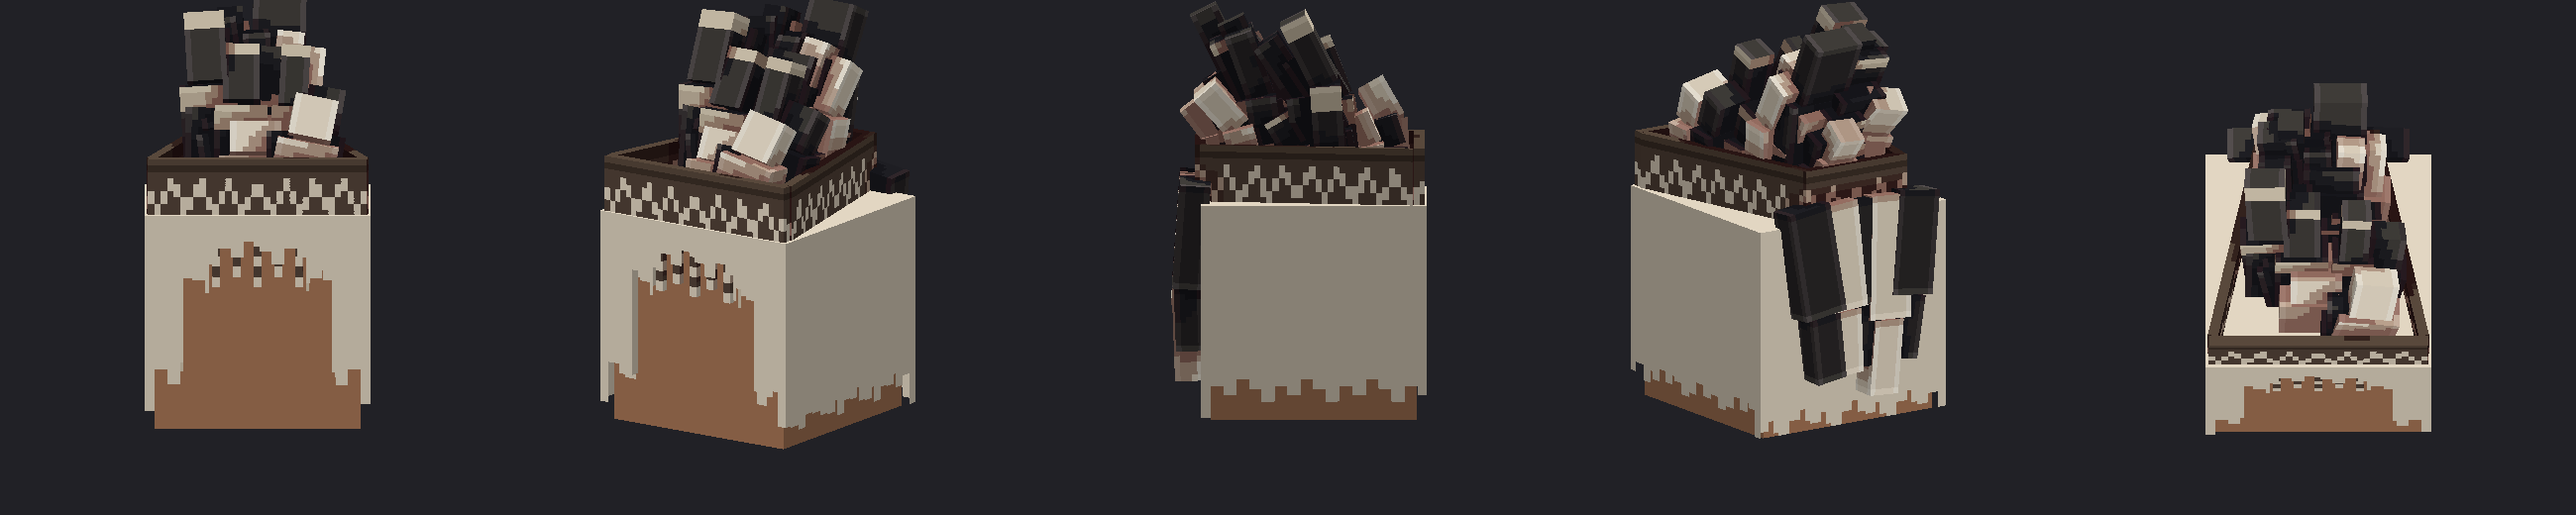
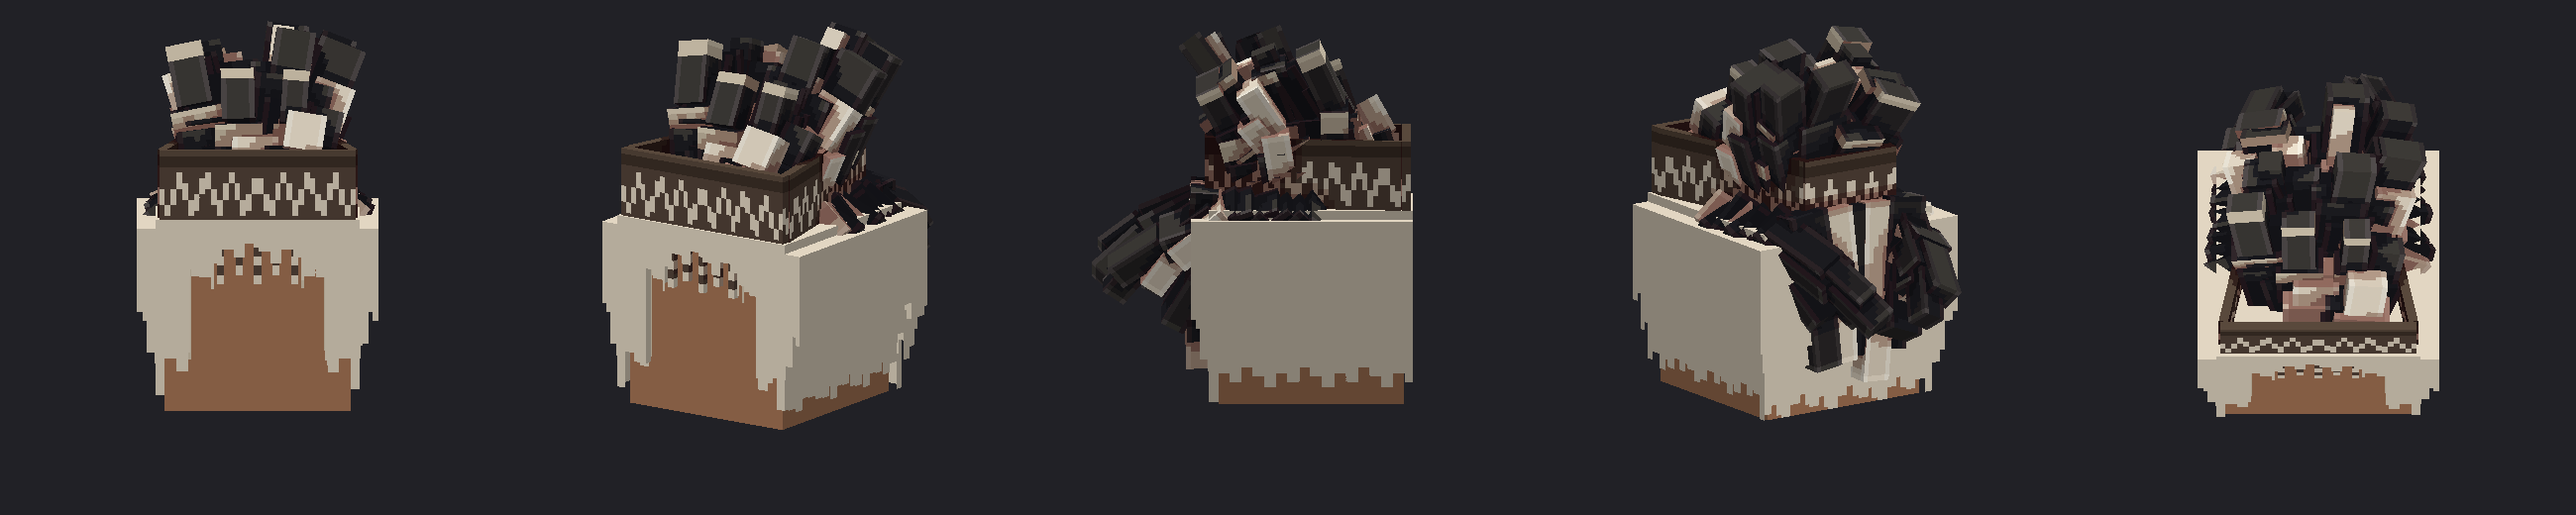
Kemira: penacho llena la diadema y se abre atras, pelo que cae fuera de la diadema, diadema mas alta y pelo en capas
Claude-Session: https://claude.ai/code/session_01JLSuk79QgXUucDMTiBYitK

diff --git a/taller/personajes/kemira.py b/taller/personajes/kemira.py
@@ -29,7 +29,7 @@ def tejido(t):
     return hex_(CREMA if abs(v - (0.3 + 0.4 * tri)) < 0.09 else CAFE)
 
 
-def diadema(p, T, alto=3.0, grosor=0.4):
+def diadema(p, T, alto=3.8, grosor=0.4):
     """Diadema alta encima de la cabeza (sujeta del pelo, no en la frente), vista desde arriba es un trapecio: adelante, de punta a punta de la frente;
     los costados se cierran hacia atras y termina recta en la nuca. Adelante cuelgan flecos de cuentas."""
     g = "Head/diadema"
@@ -93,21 +93,24 @@ def capa_pelo(base):
     return p
 
 
-def pelo(p, C, T, o=0.4):
-    """Pelo en 3D como una sola capa de grosor parejo (o) pegada a la cabeza: arriba, atras, a los costados y las
-    cortinas de adelante, todas unidas, del mismo crema y sin sombras; nada mas gordo ni que sobresalga."""
-    g = "Head/pelo"
+def pelo(p, C, T):
+    """Pelo en capas parejas pegadas a la cabeza: la primera llega mas abajo y cada capa de encima es un poco mas
+    gruesa hacia afuera y mas corta, con sus propias puntas; todas del mismo crema, unidas y sin sombras."""
     h = 4.0
-    p.caja(g, "arriba", (-h - o, T, -h - o), (h + o, T + o, h + o), capa_pelo(0), dens=8, luz=False)
-    p.caja(g, "atras", (-h - o, C, h), (h + o, T, h + o), capa_pelo(1.0), dens=8, luz=False)
-    for s in (1, -1):
-        a, b = sorted((s * h, s * (h + o)))
-        p.caja(g, f"costado{s}", (a, C, -h - o), (b, T, h), capa_pelo(1.6), dens=8, luz=False)
-        a, b = sorted((s * 2.9, s * h))
-        p.caja(g, f"cortina{s}", (a, C, -h - o), (b, T, -h), capa_pelo(2.6), dens=8, luz=False)
-        a, b = sorted((s * 1.9, s * 2.9))
-        p.caja(g, f"suelto{s}", (a, C, -h - o), (b, T, -h), capa_pelo(6.3), dens=8, luz=False)
-    p.caja(g, "flequillo", (-1.9, C, -h - o), (1.9, T, -h), capa_pelo(7.4), dens=8, luz=False)
+    for capa, (o, sube) in enumerate(((0.4, 0.0), (0.8, 1.4), (1.2, 2.8))):
+        g = "Head/pelo"
+        n = f"{capa}"
+        p.caja(g, "arriba" + n, (-h - o, T, -h - o), (h + o, T + 0.4, h + o), capa_pelo(0), dens=8, luz=False) if capa == 0 else None
+        p.caja(g, "atras" + n, (-h - o, C, h), (h + o, T, h + o), capa_pelo(1.0 + sube), dens=8, luz=False)
+        for s in (1, -1):
+            a, b = sorted((s * h, s * (h + o)))
+            p.caja(g, f"costado{s}_{n}", (a, C, -h - 0.4), (b, T, h), capa_pelo(1.6 + sube), dens=8, luz=False)
+            if capa == 0:
+                a, b = sorted((s * 2.9, s * h))
+                p.caja(g, f"cortina{s}", (a, C, -h - 0.4), (b, T, -h), capa_pelo(2.6), dens=8, luz=False)
+                a, b = sorted((s * 1.9, s * 2.9))
+                p.caja(g, f"suelto{s}", (a, C, -h - 0.4), (b, T, -h), capa_pelo(6.3), dens=8, luz=False)
+    p.caja("Head/pelo", "flequillo", (-1.9, C, -h - 0.4), (1.9, T, -h), capa_pelo(7.4), dens=8, luz=False)
 
 
 NEGRO = {"s": "#1E1C1E", "b": "#2B2829", "l": "#3B3637"}
@@ -152,25 +155,40 @@ def _azar(k):
 
 
 def penacho(p, T, C):
-    """El pelo de arriba como un penacho de figuras 3D cuadradas que se doblan, cortas y desparejas: salen
-    adentro de la diadema (sin pisarla), casi paradas y apenas hacia atras, cada una con su lugar, largo y giro.
-    Desde el borde de atras de la diadema bajan otras figuras hasta la nuca."""
-    n = 48
+    """El pelo de arriba como un penacho de figuras 3D cuadradas que se doblan, desparejas y de tamanos distintos:
+    llenan toda la diadema (sin pisarla), casi paradas; las de atras se abren hacia los costados. Donde no hay
+    diadema (las esquinas de atras de la cabeza) salen figuras que caen hacia atras y abajo, abiertas a los lados.
+    Desde el borde de atras de la diadema bajan otras hasta la nuca."""
+    n = 70
     for k in range(n):
-        f = (k + 0.5) / n                                          # de adelante hacia atras, mezclado abajo
-        z = FZ + 0.6 + 7.0 * (0.55 * f + 0.45 * _azar(k))          # desde el frente de la diadema
+        f = (k + 0.5) / n
+        z = FZ + 0.5 + (BZ - FZ - 1.0) * (0.6 * f + 0.4 * _azar(k))
         t = (z - FZ) / (BZ - FZ)
-        mitad = FX + (BX - FX) * t - 0.45
-        ancho = 1.3 + 1.9 * _azar(k + 50)                           # tamanos muy distintos
-        x = (2 * ((k * 0.618 + 0.3 * _azar(k + 100)) % 1.0) - 1) * max(0.0, mitad - ancho / 2)   # repartidas a lo ancho
-        largo = 2.6 + 5.0 * _azar(k + 150) ** 1.5 + 1.2 * (z - FZ) / 8.0
-        inclina = 2 + 16 * (z - FZ) / 8.0 + 10 * (_azar(k + 200) - 0.5)
-        abre = -x * 5 + 16 * (_azar(k + 250) - 0.5)
+        mitad = FX + (BX - FX) * t - 0.4
+        ancho = 1.3 + 1.9 * _azar(k + 50)
+        q = 2 * ((k * 0.618 + 0.3 * _azar(k + 100)) % 1.0) - 1
+        x = q * max(0.0, mitad - ancho / 2)
+        largo = 2.6 + 5.0 * _azar(k + 150) ** 1.5 + 1.0 * t
+        inclina = 2 + 12 * t + 10 * (_azar(k + 200) - 0.5)
+        abre = -q * (6 + 34 * t) + 14 * (_azar(k + 250) - 0.5)        # atras se abren hacia los costados
         crema = _azar(k + 300) < 0.2
         tono = CREMA_PLUMA if crema else NEGRO
         punta = None if crema or _azar(k + 350) < 0.6 else CREMA_PLUMA["s"]
         poner_figura(p, f"figura{k}", (x, T + 0.4, z), largo, ancho, (inclina, 0, abre), tono, punta,
                      dobla=10 + 18 * _azar(k + 400))
+    # las esquinas de atras, fuera de la diadema: caen hacia atras y abajo, abiertas a los costados
+    k = 0
+    for s in (1, -1):
+        for i in range(9):
+            z = -0.5 + 4.6 * i / 8
+            t = (z - FZ) / (BZ - FZ)
+            borde = FX + (BX - FX) * t + 0.5                         # justo afuera de la pared de la diadema
+            x = s * (borde + (3.9 - borde) * _azar(k + 600))
+            largo = 4.0 + 3.0 * _azar(k + 650)
+            tono = CREMA_PLUMA if _azar(k + 700) < 0.2 else NEGRO
+            poner_figura(p, f"cae{k}", (x, T + 0.4, z), largo, 1.4 + 1.2 * _azar(k + 750),
+                         (110 + 30 * _azar(k + 800), 0, -s * (20 + 25 * _azar(k + 850))), tono, dobla=15)
+            k += 1
     # del borde de atras de la diadema bajan figuras hacia la nuca, pegadas a la cabeza
     for k, x in enumerate((-2.6, -1.3, 0.0, 1.3, 2.6)):
         largo = 6.5 + 1.5 * _azar(k + 500)
